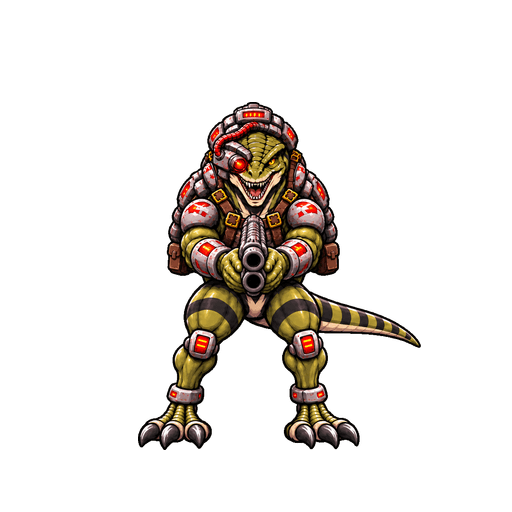
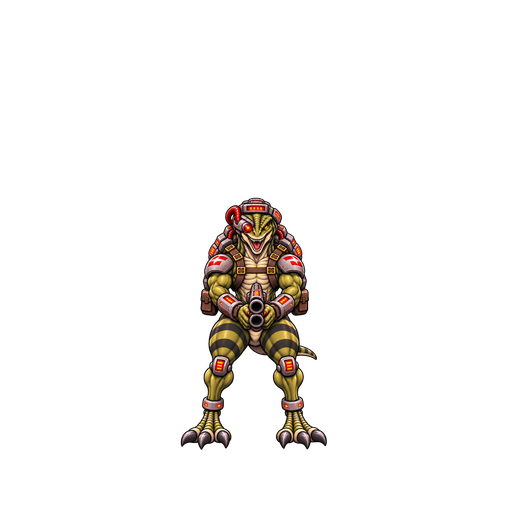
39T7.7: install front standing, stalk and distinct jog anatomy pilot

Changed region(s): [[0.25, 0.1875, 0.8438, 0.875]]

diff --git a/app/studio/character-lab/page.tsx b/app/studio/character-lab/page.tsx
@@ -23,7 +23,7 @@ export default function CombatLab(){
  return <main style={{minHeight:"100vh",background:"#08101b",color:"#f5fbff",fontFamily:"Arial",padding:"max(25px,env(safe-area-inset-top)) 20px"}}>
   <div style={{maxWidth:800,margin:"auto"}}>
    <a href="/studio" style={{color:"#89e9f2"}}>← BACK TO STUDIO</a>
-   <p style={{color:"#ff8d9e",letterSpacing:2,fontSize:12}}>GOD MODE / BUILD 39T7.6 PLAYTEST</p>
+   <p style={{color:"#ff8d9e",letterSpacing:2,fontSize:12}}>GOD MODE / BUILD 39T7.7 PLAYTEST</p>
    <h1>COMBAT LAB</h1>
    <a href="/raptor-animation-review.html" style={{color:"#89e9f2"}}>Review all run and slide frames</a>
    <p>Both fighters use the newer XYZ combat engine. This is a test build, not a production character unlock.</p>

diff --git a/docs/raptor-39t7-anatomy-audit.md b/docs/raptor-39t7-anatomy-audit.md
@@ -110,3 +110,6 @@ Nine front-right replacements/new assets passed static cycle review and local fi
 39T7.5 code81c8c2aa17f334a9daac38163634ef59e7d8a5d2 deployed SUCCESS (0459fa1b-46e9-4d75-a659-3749808bcc08). Fresh lab/review show39T7.5 and120loadedpaths. Front-right stalk painted0,1,2,3 using touch-right plus keyboardS. Jog pace unexpectedly reached sprint0,1,2,3 because digital diagonal axes were scaled before normalizing magnitude. Therefore diagonal jog gameplay was NOT passed.
 39T7.6 adds raptorLabMovement: normalize vector only when magnitude>1, then apply labpace. Applied only in Raptor combatLab keyboard/touch branch; native controller read remains afterward and unchanged. All8direction magnitude/angle tests pass at.25/.55/1, zero/subunit input preserved.39T6.2 edge queues untouched. Local four-direction gait/hysteresis/fire/registration tests pass.
 Front-left idle1/stalk4/jog4 pilot exported at fixed.2source scale with pelvisx500/groundy1270 registration, all1199x1312sourcecanvas.9transparent512PNGs validated SHA256/clearborders. StalkcontactA original56caaea9 rejected for repeated leading thigh; c6d97913 corrects it. Initial jog7dc08889 rejected for enlargedhead;14b9a3f2 corrects head/tail. Passing65bfb2e2 rejected for shortenedsnout;bab67c2b corrects it. Final phase sourceIDs stored inmanifest.39T7.6inventory96uniqueimages+32runaliases=128paths.39pilot anatomy images installed across four slow-gait directions and rightslide. Fourdirections(front/back/back-left/back-right)stilllackstalk4+jog4=32images. Allsprintcontinuity, remainingidle/slides, muzzle/shot alignment and fullgameplaymatrix remain open. Front/back standing replacements currentlygenerating, notaccepted/installed.39T7.6deployment/gameplay pending.
+
+## 39T7.7 staged front pilot
+Nine front assets: standing1/stalk4/jog4. Jog3342c5c2 rejected for upright posture; revised contactad3ce3b2, passingRIGHTecc64c6e, contactLEFT632042ef, passingLEFTab929d6a preserve moderate forward pitch and alternate thighs/support. Stalk passing poses reordered by anatomy. Contact2db7b5b9 rejected for clipped center-claw tip; repaired sourced5565271 preserves pose. Source-canvas scale .2 and shared pelvis/ground registration, faint alpha specks removed.9 transparent512PNGs validated hashes and empty borders; five-direction selection tests pass including fire phases, hysteresis, slide recovery, legacy anchors, normalized diagonal pace.104unique images+32aliases=136paths;48 anatomy pilot images across releases. Deployment and new front gameplay pending. Three rear directions still lack24slow-gait images. Rear contact5fe62685 and94afe0c5 rejected pending raised-foot repair (human/shoe-shaped sole instead of distinct reptilian digits); do not install. Other sprint/slide/firing-origin/fullplayback defects remain open.
